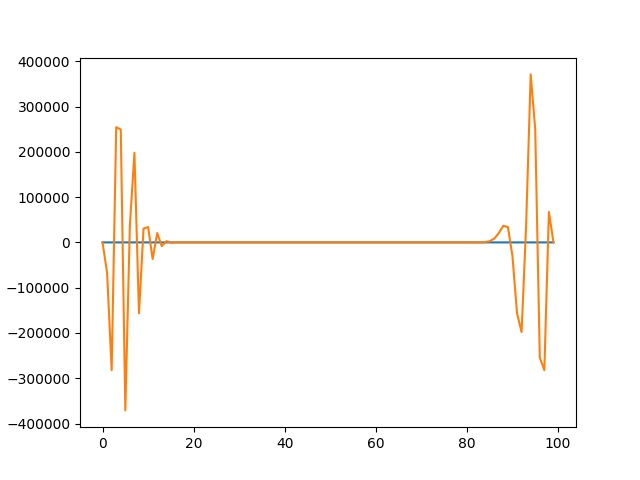
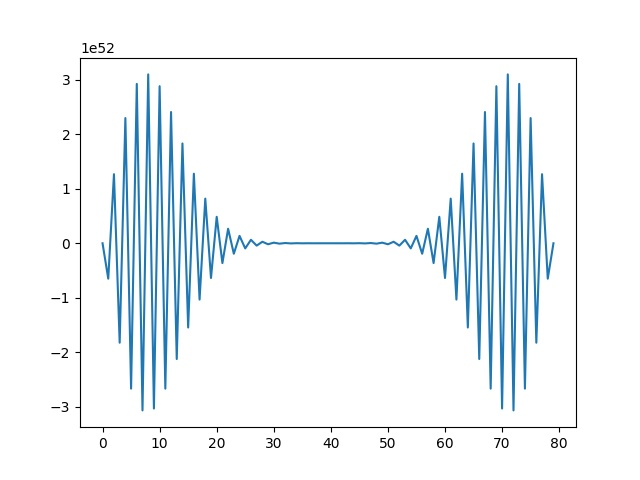
edits

diff --git a/py_ver/well.py b/py_ver/well.py
@@ -1,11 +1,11 @@
 import numpy as np
 import matplotlib.pyplot as plt
-L = 100
-dy = 0.02
+L = 80
+dx = 0.05
 Vx = np.zeros(L)
-Vx[0] = 10
-Vx[-1]= 10
-plt.plot(Vx)
+Vx[0] = 100
+Vx[-1]= 100
+#plt.plot(Vx)
 
 """
 H = p**2/2m + 0
@@ -13,28 +13,37 @@ Hy = Ey
 => -a y'' = Ey
 => ay'' + Ey = 0
 """
-Y = np.zeros_like(Vx)
-dY = np.zeros_like(Vx)
-ddY = np.zeros_like(Vx)
-Tol = 0.1
-Max = 1000
-tmp_Y = np.zeros_like(Vx)
+Y = np.ones_like(Vx,dtype=float)
+E = 1
+dY = np.zeros_like(Vx,dtype=float)
+ddY = np.zeros_like(Vx,dtype=float)
+
+Tol = 20000
+Max = 10
+
+tmp_Y = np.zeros_like(Vx,dtype=float)
+for i in range(L):
+    tmp_Y[i] = Y[i]
 #print(Vx)
-while(Max>0):
-    #Max = np.abs(Y[0] - tmp_Y[0])
-    Max -= 1
-    print(Max,end='\n')
-    Y = tmp_Y
+while(Tol>0):
+    Tol -= 1
+    #for i in range(L):
+    #    Y[i] = tmp_Y[i]
+    for i in range(L):
+        ddY[i] = (Vx[i] - E + Y[i])*-0.03
+    
     for i in range(1,L-1):
-        ddY[i] = (Vx[i+1]-Vx[i-1]) / 2 +(Y[i+1]-Y[i-1]) / 2
+        dY[i] += (ddY[i-1]+ddY[i+1])*dx/2
     for i in range(L):
-        dY[i] += ddY[i]*dy
-    for i in range(L):
-        tmp_Y[i] += dY[i]*dy
-    #print(tmp_Y)
-    for i in range(L):
-        if(Max < np.abs(Y[i]-tmp_Y[i])):
-            Max = np.abs(Y[i]-tmp_Y[i])
+        Y[i] += dY[i]*dx/2
+        #if dY[i]*dx < Tol:
+        #    break
+    print(Y)
+    #for i in range(L):
+    #    if(Max < np.abs(Y[i]-tmp_Y[i])):
+    #        Max = np.abs(Y[i]-tmp_Y[i])
+    #        print(Max)
+
 plt.plot(Y)
 #plt.plot(ddY)
 plt.savefig('py_ver/well.jpg')
